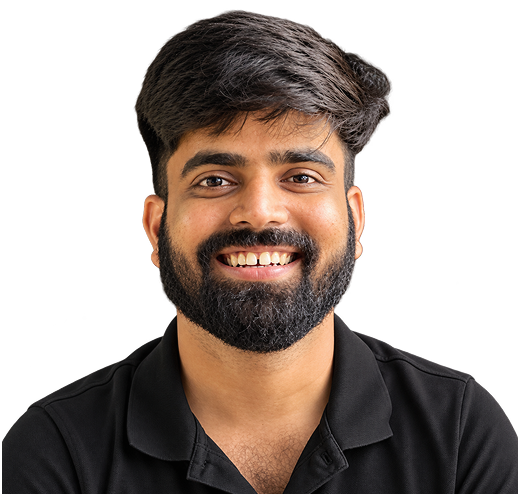
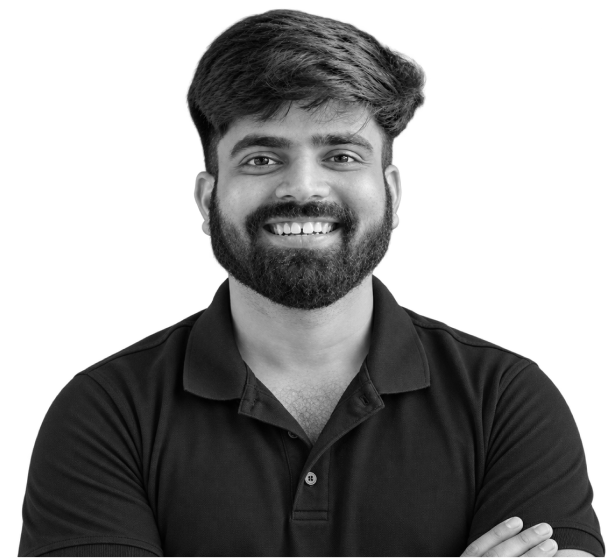
Campaign videos: stop the playing video when another starts; update featured work, news and About content

diff --git a/app/globals.css b/app/globals.css
@@ -2558,12 +2558,21 @@ html[data-hero-curtain] .hx-bar {
   /* like the phone cards: the box starts at the tetris block's top edge and
      the cut-out is pinned to that edge, so every founder's head starts at
      the same level whatever the file's proportions */
-  object-fit: cover;
-  object-position: center top;
+  /* the whole cut-out shows: it fills the box's height at its own width,
+     centred on the box, so a wider photo spills a little past each side
+     rather than being clipped on the right */
+  position: absolute;
+  top: 0;
+  left: 50%;
+  translate: -50% 0;
+  width: auto;
+  max-width: none;
+  object-fit: contain;
   display: block;
   /* the founders read in black and white against the acid ground */
   filter: grayscale(1)
 }
+
 
 /* the bottom-left white block is the headline's own box rather than part
    of the ground, so it covers the photo's shoulder like the design does */
@@ -2599,10 +2608,11 @@ html[data-hero-curtain] .hx-bar {
 
 .fw2-chip {
   position: absolute;
-  /* a true square in design px (79 x 80), butted against the quote panel's
-     left edge and standing 15px above its top, so it keeps its shape however
-     the card's proportions stretch the blocks around it */
-  left: calc(59.17% - 79 * var(--k));
+  /* a true square in design px (79 x 80), so it keeps its shape however the
+     card's proportions stretch the blocks around it */
+  /* its right edge runs 11.5px past the panel's left edge, and the panel
+     starts 65px below the chip's top, so the two read as one stepped shape */
+  left: calc(59.17% - 67.5 * var(--k));
   top: calc(8.75% - 15 * var(--k));
   width: calc(79 * var(--k));
   height: calc(80 * var(--k));
@@ -2623,7 +2633,7 @@ html[data-hero-curtain] .hx-bar {
 .fw2-quote {
   position: absolute;
   left: 61.46%;
-  top: 15%;
+  top: 22.8%;
   right: 6.9%;
   bottom: 6.25%;
   display: flex;
@@ -10214,7 +10224,7 @@ button:focus-visible,
   font-weight: 400;
   letter-spacing: -.03em;
   line-height: 1.05;
-  margin: 0 0 clamp(28px, 3vw, 42px)
+  margin: 0 0 20px
 }
 
 .contact-sub {
@@ -10310,7 +10320,7 @@ button:focus-visible,
 }
 
 .contact-label {
-  font-size: 11px;
+  font-size: 12px;
   line-height: 1.3;
   color: #111
 }
@@ -10382,20 +10392,20 @@ button:focus-visible,
   margin-top: 4px;
   display: flex;
   align-items: stretch;
-  height: 36px;
+  height: 44px;
   padding: 0;
   border: 0;
   border-radius: 0;
   background: transparent;
   color: var(--paper);
   font-family: var(--body);
-  font-size: 11px;
+  font-size: 12px;
   font-weight: 700;
   letter-spacing: .1em
 }
 
 .contact-submit-label {
-  width: 179px;
+  width: 220px;
   display: flex;
   align-items: center;
   justify-content: center;
@@ -10403,7 +10413,7 @@ button:focus-visible,
 }
 
 .contact-submit-icon {
-  width: 36px;
+  width: 48px;
   background: var(--acid);
   color: var(--violet);
   display: grid;
@@ -10418,8 +10428,8 @@ button:focus-visible,
 }
 
 .contact-submit-icon svg {
-  width: 34px;
-  height: 34px
+  width: 40px;
+  height: 40px
 }
 
 @media (max-width:900px) {
@@ -10463,7 +10473,7 @@ button:focus-visible,
 
   .contact-head .d1 {
     font-size: 36px;
-    margin-bottom: 24px
+    margin-bottom: 26px
   }
 
   .contact-row {
@@ -10493,7 +10503,7 @@ button:focus-visible,
 
   .contact-submit {
     align-self: stretch;
-    height: 39px
+    height: 44px
   }
 
   .contact-submit-label {
@@ -10502,7 +10512,7 @@ button:focus-visible,
   }
 
   .contact-submit-icon {
-    width: 39px
+    width: 48px
   }
 
   .contact-links {
@@ -10981,7 +10991,7 @@ button:focus-visible,
 
 .fwm-by span {
   font-family: var(--body);
-  font-size: 2.8cqw;
+  font-size: 10px;
   line-height: 1.3;
   color: #4C4546
 }
@@ -11010,7 +11020,7 @@ button:focus-visible,
 }
 
 .fwm-quote {
-  margin-top: 4cqw
+  margin-top: 20px
 }
 
 .fwm-quote p {
@@ -12123,12 +12133,12 @@ button:focus-visible,
 /* type sized to the mobile mock */
 .fwm-by b {
   font-weight: 600;
-  font-size: 4.4cqw
+  font-size: 14px
 }
 
 .fwm-line {
   padding-right: .6cqw;
-  font-size: 4.45cqw;
+  font-size: 16px;
   line-height: 1.22
 }
 
@@ -12487,7 +12497,7 @@ button:focus-visible,
   gap: clamp(60px, 8vw, 120px);
   color: #4C4546;
   font-family: var(--body);
-  font-size: 14px;
+  font-size: 16px;
   font-weight: 400;
   line-height: 1.5
 }
@@ -12533,7 +12543,7 @@ button:focus-visible,
   .ab-openingCopy {
     grid-template-columns: 1fr;
     gap: 0;
-    font-size: 15px
+    font-size: 16px
   }
 
   .ab-openingColumn {
@@ -13338,7 +13348,10 @@ button:focus-visible,
     white-space: normal
   }
 
+  /* the plate fills the card, so a role that wraps to two lines doesn't
+     leave its neighbour's plate shorter */
   .abt-plate {
+    flex: 1;
     height: auto;
     min-height: 25cqw;
     padding-bottom: 4cqw
@@ -13916,8 +13929,7 @@ button:focus-visible,
    still standing on the plate */
 @media (min-width:701px) {
   .abt-shot img {
-    transform: scale(.9);
-    transform-origin: center bottom
+    transform: none
   }
 }
 
@@ -14398,5 +14410,49 @@ button:disabled {
 @media (max-width:640px) {
   .vfoot--showSub .vfoot__wellWrap {
     margin-top: 40px
+  }
+}
+
+/* the panel is exactly as tall as the stage list, so the gap under the heading is
+   a steady 80px at every stage; the board centres on the list, and the pinned
+   block lines up from the top so the heading never moves as stages open */
+@media (min-width:901px) {
+  .wy-in {
+    gap: 80px
+  }
+
+  .wy-panel {
+    height: auto;
+    align-items: center
+  }
+
+  .wy-sticky {
+    align-items: flex-start
+  }
+}
+
+/* the board no longer follows the list as stages open and close: the panel is a
+   fixed height (the tallest open state), the list hangs from its top, and the
+   board sits still in the middle of it */
+@media (min-width:901px) {
+  .wy-panel {
+    height: calc(500 * var(--k));
+    align-items: flex-start
+  }
+
+  .wy-left {
+    align-self: flex-start
+  }
+
+  .wy-boardwrap {
+    align-self: center
+  }
+}
+
+/* photos with their own backdrop fill the frame edge to edge (no shrink, so no
+   border of another shade) */
+@media (min-width:701px) {
+  .abt-shot--solid img {
+    transform: none
   }
 }

diff --git a/app/components/CampaignFrame.jsx b/app/components/CampaignFrame.jsx
@@ -1,11 +1,15 @@
 "use client";
 
-import { useState } from "react";
+import { useEffect, useState } from "react";
 import "@videojs/react/video/skin.css";
 import { VideoPlayer, VideoSkin } from "@videojs/react/video";
 import { CloudflareVideo } from "@videojs/react/media/cloudflare-video";
 
 const STREAM = "https://customer-np97ccync4jeshuk.cloudflarestream.com";
+
+// only one video plays at a time: the frame currently playing registers its
+// stop callback here, and starting another one calls it
+let stopActive = null;
 
 // one frame on a campaign page: a still, or — when the frame carries a
 // Cloudflare Stream `video` id — the video's own thumbnail with a play mark
@@ -13,6 +17,16 @@ const STREAM = "https://customer-np97ccync4jeshuk.cloudflarestream.com";
 // clicked
 export default function CampaignFrame({ frame, title }) {
   const [playing, setPlaying] = useState(false);
+
+  useEffect(() => {
+    if (!playing) return;
+    const stop = () => setPlaying(false);
+    if (stopActive && stopActive !== stop) stopActive();
+    stopActive = stop;
+    return () => {
+      if (stopActive === stop) stopActive = null;
+    };
+  }, [playing]);
 
   if (!frame.video) {
     return <img className="cmp-frame" src={frame.src} alt={frame.alt} />;

diff --git a/app/components/AboutTeam.jsx b/app/components/AboutTeam.jsx
@@ -25,6 +25,10 @@ const TEAM = [
   { name: "Anshika Bhatnagar", role: "Creative Associate - Social", bg: "#F3B1BD", linkedin: "https://www.linkedin.com/in/anshika-b-698ba842a" },
 ].map((m, i) => ({ ...m, photo: `/about%20us/team/team${i + 1}.png` }));
 
+// the photos that come with their own backdrop (no transparent ground): these
+// fill the whole frame instead of being shrunk, so no flat bg colour shows round them
+const SOLID = new Set([5, 8, 9, 16, 17, 18]);
+
 function LinkedInIcon() {
   return (
     <svg viewBox="0 0 24 24" aria-hidden="true">
@@ -60,9 +64,9 @@ export default function AboutTeam() {
       </div>
 
       <div className="abt-grid">
-        {TEAM.map((m) => (
+        {TEAM.map((m, i) => (
           <article className="abt-card" key={m.name}>
-            <div className="abt-shot" style={{ background: m.bg }}>
+            <div className={`abt-shot${SOLID.has(i + 1) ? " abt-shot--solid" : ""}`} style={{ background: m.bg }}>
               <img src={m.photo} alt={m.name} loading="lazy" />
               <span className="abt-step abt-step--1" aria-hidden="true" />
               <span className="abt-step abt-step--2" aria-hidden="true" />

diff --git a/app/components/tetrisPieces.js b/app/components/tetrisPieces.js
@@ -5,7 +5,7 @@ export const TET_H = 433;
 
 export const TET_PIECES = [
   { fill: "var(--violet)", pts: [[0,353,1],[176,353,1],[176,265,1],[260,265,1],[260,433],[0,433]] },
-  { fill: "var(--acid)", pts: [[264,265,1],[352,265,1],[352,177,1],[436,177,1],[436,265,1],[614,265,1],[614,349],[527,349],[527,433],[264,433]] },
+  { fill: "var(--acid)", pts: [[264,265,1],[352,265,1],[352,177,1],[436,177,1],[436,265,1],[613,265,1],[613,349],[524,349],[524,433],[264,433]] },
   { fill: "var(--violet)", pts: [[528,433],[528,353],[617,353],[617,265,1],[701,265,1],[701,351],[793,351],[793,265,1],[882,265,1],[882,177,1],[1054,177,1],[1054,261],[966,261],[966,433]] },
   { fill: "#FCE862", pts: [[705,177],[790,177],[790,347],[705,347]] },
   { fill: "var(--acid)", pts: [[969,265,1],[1058,265,1],[1058,89,1],[1230,89,1],[1230,177],[1319,177],[1319,261],[1230,261],[1230,433],[969,433]] },

diff --git a/app/data/featuredWork.js b/app/data/featuredWork.js
@@ -78,7 +78,7 @@ export const FEATURED_WORK = [
     name: "Apnamart",
     category: "apnamart.in",
     solo: true,
-    photos: [{ src: "/featured%20works/Abhishek%20Singh.png", cls: "fw-ph fw-phSolo fw-phShrink" }],
+    photos: [{ src: "/featured%20works/apnamart-founder.png", cls: "fw-ph fw-phSolo fw-phShrink" }],
     plates: [{ name: "Abhishek Singh", role: "Founder & CEO", cls: "fw-plate1 fw-plateSolo" }],
     quote:
       "We\u2019ve worked with Vidrow for two years, and they\u2019ve become an extension of the Apnamart team. **From brand positioning to performance and offline marketing, they go deep, challenge our thinking, and stay focused on outcomes.**\n\nWhen we handed them our toughest challenge - rebranding Apnamart - they delivered a new positioning that will shape our next chapter of growth. Vidrow is a partner we genuinely trust.",

diff --git a/app/components/PrTable.jsx b/app/components/PrTable.jsx
@@ -34,8 +34,9 @@ export default function PrTable({ children }) {
         lenisRef.current?.stop();
         timer = setTimeout(() => lenisRef.current?.start(), PLAY_MS);
       },
-      // fires once the table's top is well up the screen, so it's mostly in view
-      { rootMargin: "0px 0px -55% 0px" }
+      // fires once the table's top is up near the top quarter of the screen,
+      // under the heading, so the whole table is in view while it holds
+      { rootMargin: "0px 0px -73% 0px" }
     );
     io.observe(el);
     return () => {

diff --git a/app/data/news.js b/app/data/news.js
@@ -15,7 +15,7 @@ export const NEWS_ITEMS = [
     href: "https://www.financialexpress.com/business/news/edtech-startup-masai-targets-rs-450-crore-revenue-in-fy27/4205228/",
   },
   {
-    img: "/news-imgs/news-4.png",
+    img: "/news-imgs/grow-founder.png",
     title: "Groww leads India's top brokerages",
     href: "https://economictimes.indiatimes.com/markets/stocks/news/groww-leads-indias-top-brokerages-in-july-with-over-70000-new-active-accounts/articleshow/133195517.cms?from=mdr",
   },

diff --git a/app/components/FeaturedWork.jsx b/app/components/FeaturedWork.jsx
@@ -47,7 +47,7 @@ const GROUND = [
   [0, 362, 86, 96],
   [0, 458, 172, 62],
   [0, 520, 258, 32],
-  [852, 56, 588, 584], // quote panel
+  [852, 106, 588, 534], // quote panel (its top sits 65px under the chip's)
   [662, 552, 190, 88], // step off the panel's bottom-left
 ];
 
